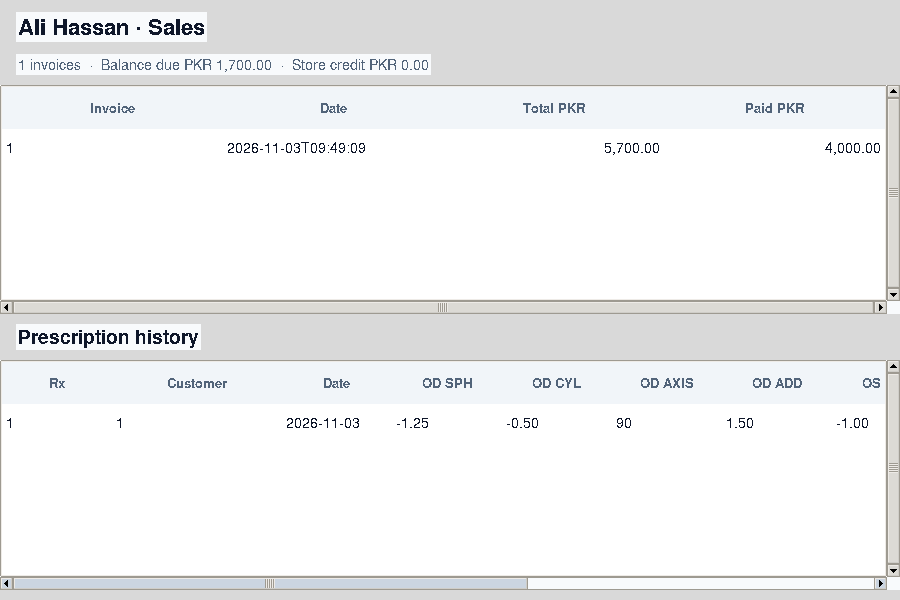
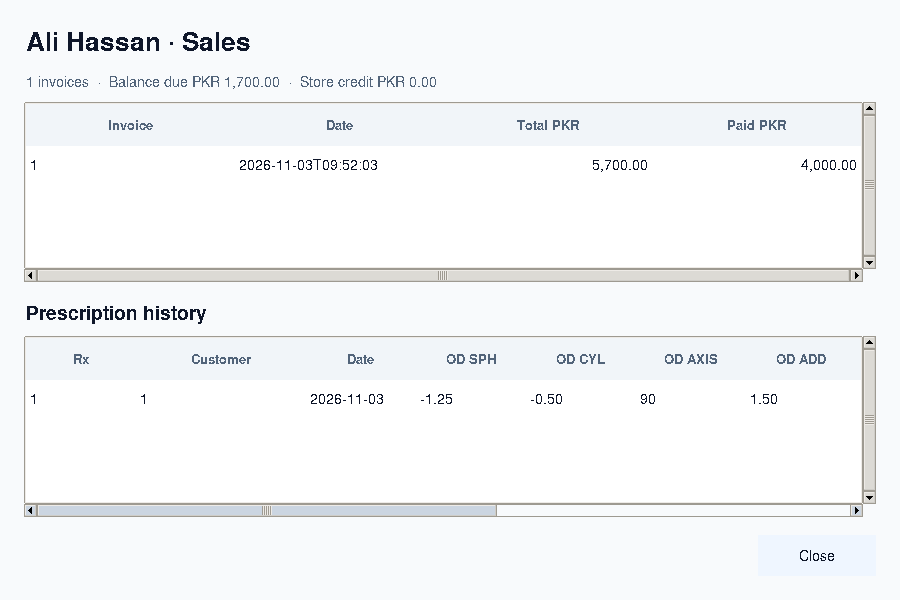
Polish customer history window spacing and keyboard dismissal

diff --git a/desktop.py b/desktop.py
@@ -299,12 +299,15 @@ class Desktop:
         actions=self.toolbar();self.button(actions,'Edit selected',lambda:self.new_customer(grid.selected()))
         def history():
             row=grid.selected();sales,rx=self.s.history(row[0]);w=tk.Toplevel(self.root);w.title(row[1]+' · History');w.geometry('900x600')
-            ttk.Label(w,text=row[1]+' · Sales',font=(FONT,16,'bold')).pack(anchor='w',padx=16,pady=12)
+            shell=ttk.Frame(w,padding=24);shell.pack(fill='both',expand=True)
+            ttk.Label(shell,text=row[1]+' · Sales',font=(FONT,19,'bold')).pack(anchor='w',pady=(0,12))
             position=self.s.customer_position(row[0])
-            ttk.Label(w,text=f'{position["invoices"]} invoices  ·  Balance due PKR {position["due_cents"]/100:,.2f}  ·  Store credit PKR {position["credit_cents"]/100:,.2f}',style='Muted.TLabel').pack(anchor='w',padx=16)
-            Grid(w,('Invoice','Date','Total PKR','Paid PKR'),sales,height=5)
-            ttk.Label(w,text='Prescription history',font=(FONT,14,'bold')).pack(anchor='w',padx=16)
-            Grid(w,('Rx','Customer','Date','OD SPH','OD CYL','OD AXIS','OD ADD','OS SPH','OS CYL','OS AXIS','OS ADD','PD','Notes'),rx,height=5)
+            ttk.Label(shell,text=f'{position["invoices"]} invoices  ·  Balance due PKR {position["due_cents"]/100:,.2f}  ·  Store credit PKR {position["credit_cents"]/100:,.2f}',style='Muted.TLabel').pack(anchor='w')
+            Grid(shell,('Invoice','Date','Total PKR','Paid PKR'),sales,height=5)
+            ttk.Label(shell,text='Prescription history',font=(FONT,14,'bold')).pack(anchor='w',pady=(8,0))
+            Grid(shell,('Rx','Customer','Date','OD SPH','OD CYL','OD AXIS','OD ADD','OS SPH','OS CYL','OS AXIS','OS ADD','PD','Notes'),rx,height=5)
+            ttk.Button(shell,text='Close',command=w.destroy).pack(anchor='e',pady=(8,0))
+            w.bind('<Escape>',lambda e:w.destroy())
         self.button(actions,'View sales & Rx history',history);e.focus_set()
     def pos(self):
         layout=ttk.Frame(self.body);layout.pack(fill='both',expand=True);layout.columnconfigure(0,weight=1);layout.columnconfigure(1,weight=0);layout.rowconfigure(0,weight=1)
